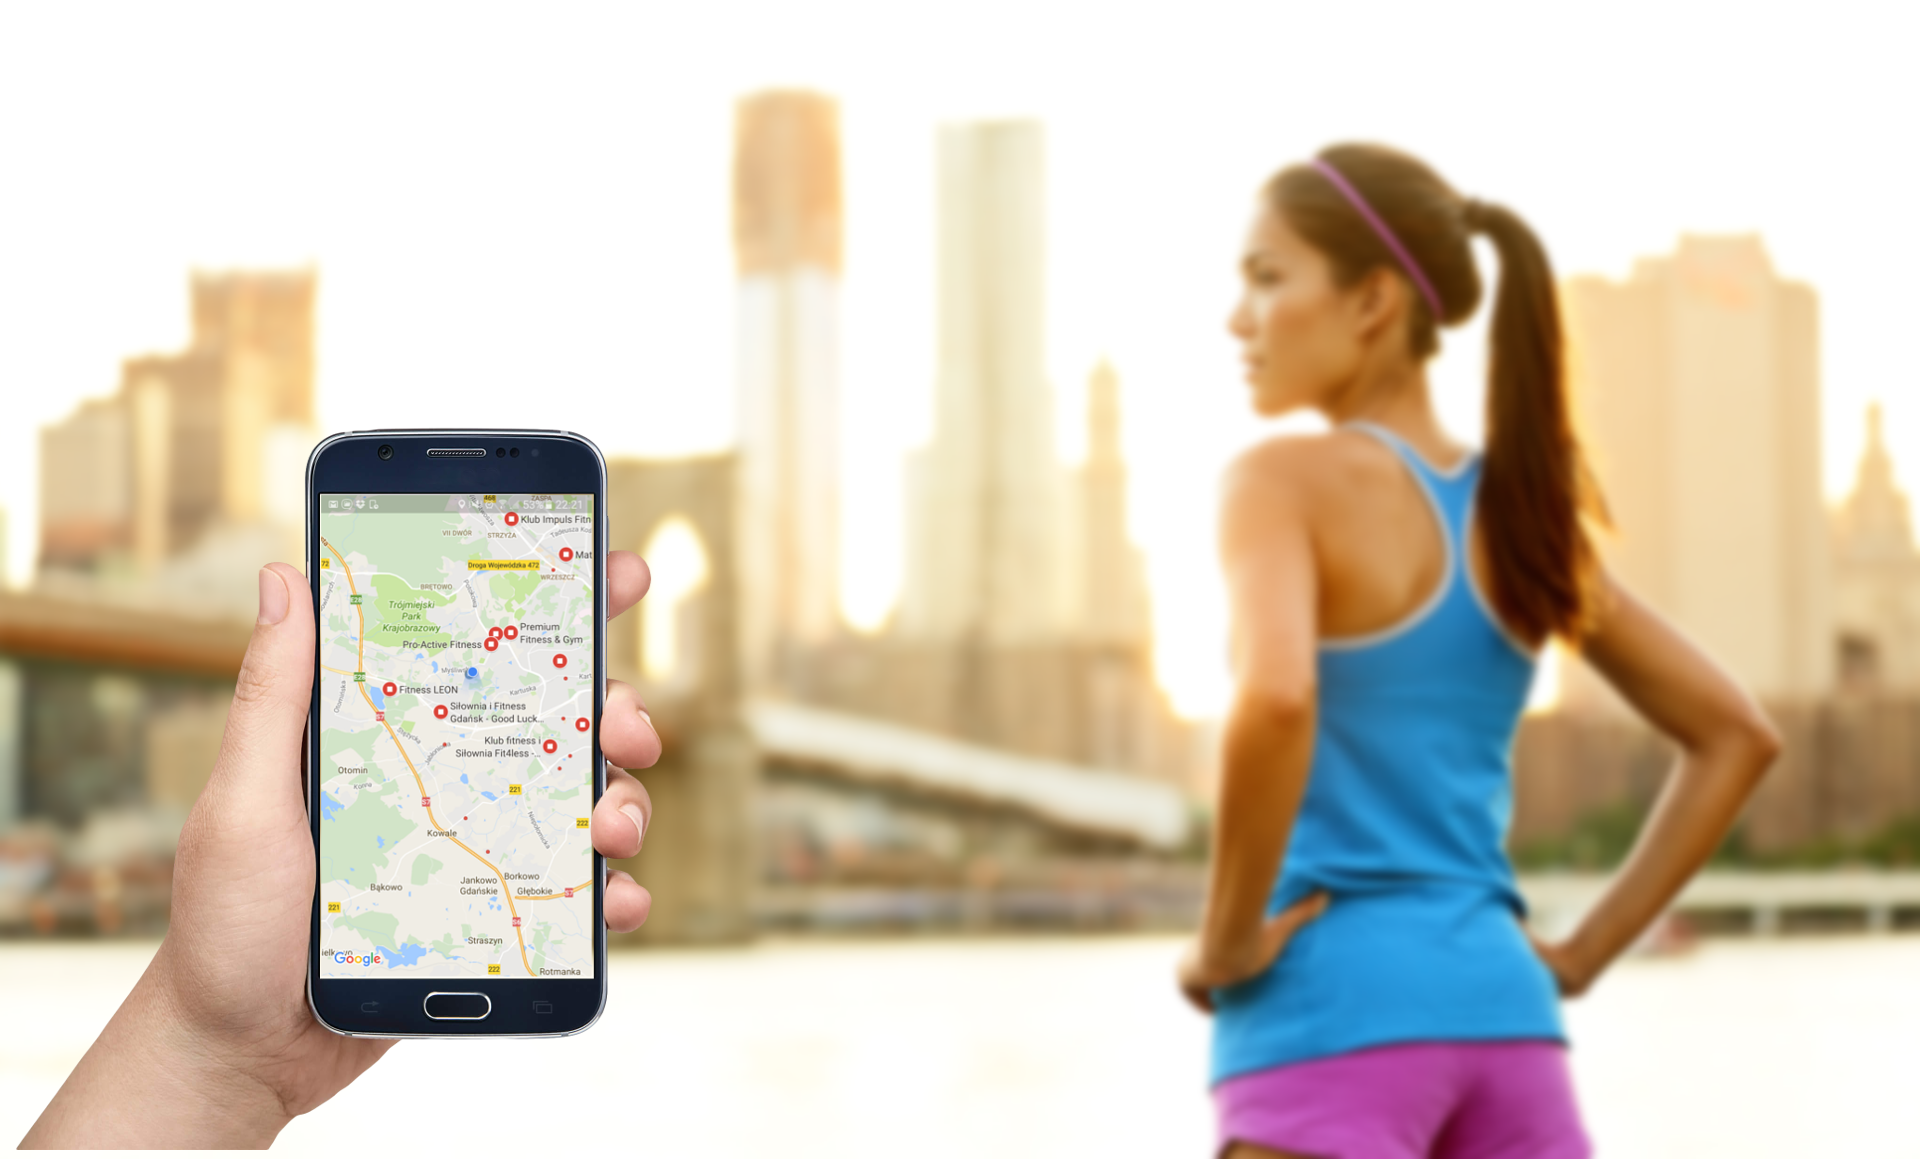
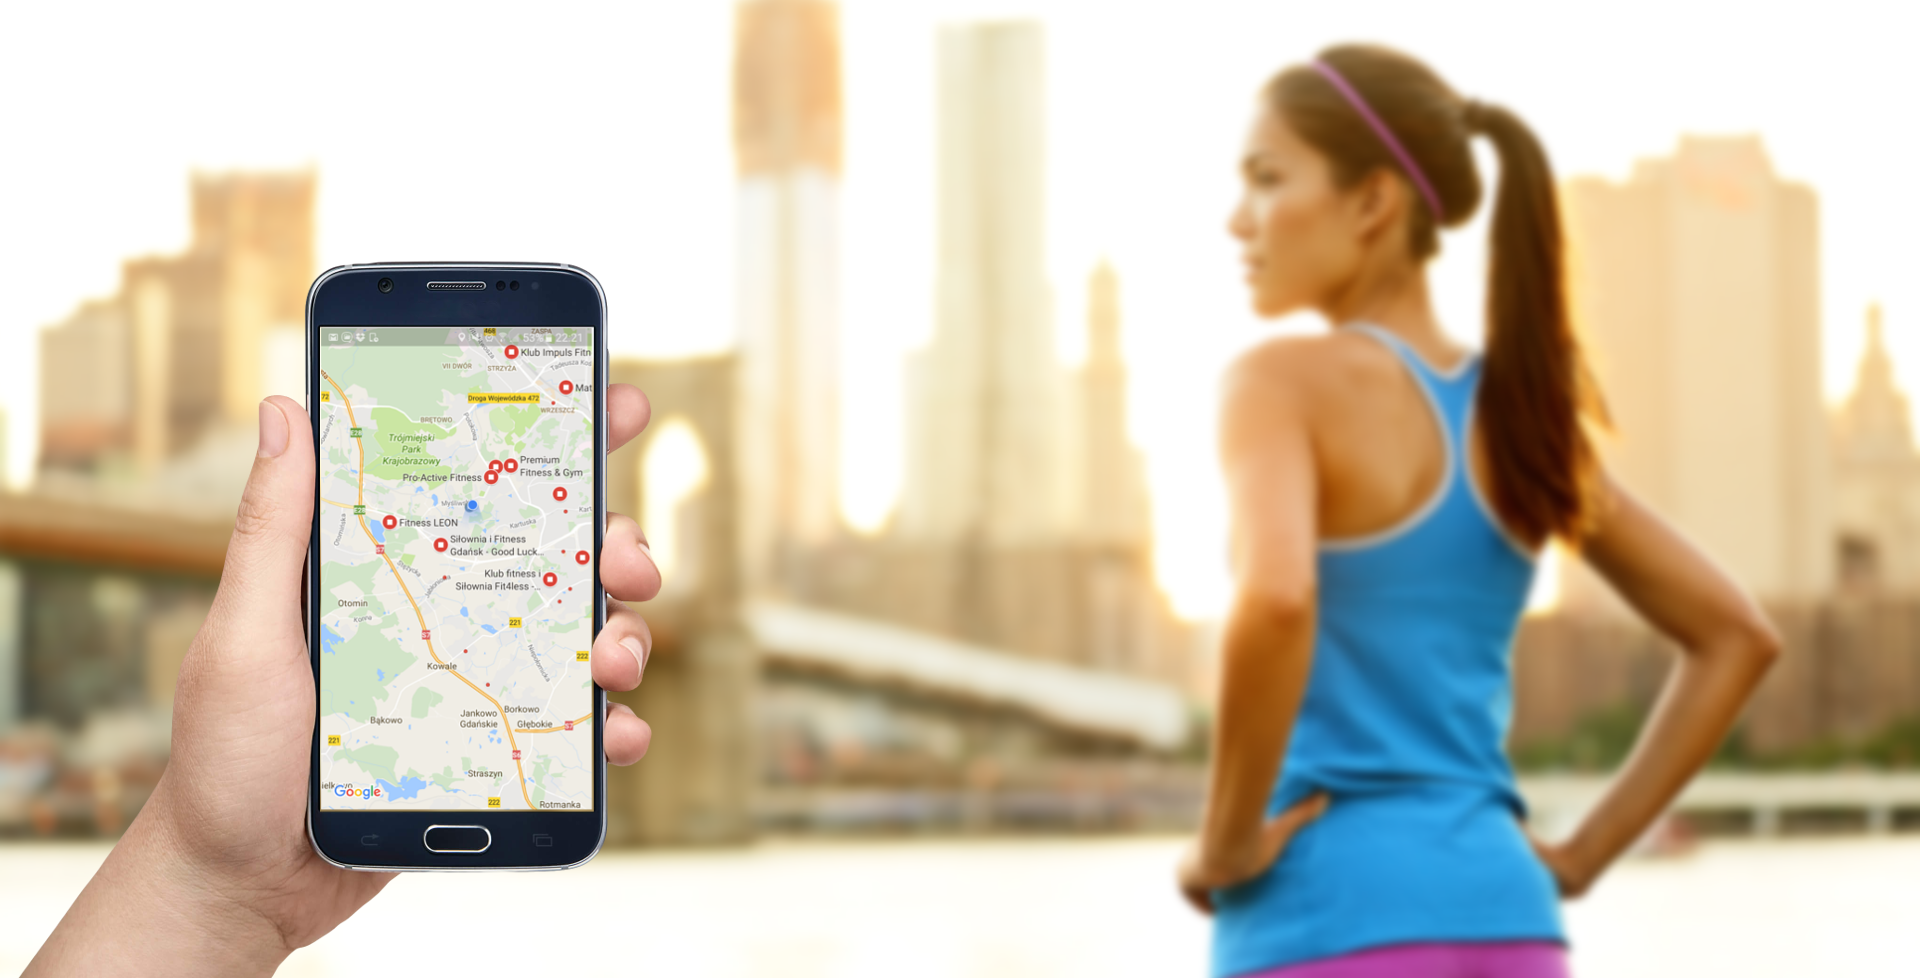
FD7MK/header zajawki wyśrodkowany, zajawka dopieszczona

diff --git a/style/style.css b/style/style.css
@@ -3,38 +3,42 @@
     background-size: cover;
     background-repeat: no-repeat;
     min-height: 100vh;
-    background-position: center;
+    background-position: center 63px;
     width: 100%;
     /*margin-top: 1px;*/
     background-attachment: fixed;
-
+    display: flex;
+    display: -webkit-flex;
+    -webkit-justify-content: center;
+    justify-content: center;
+    align-items: center;
+    -webkit-align-items: center;
 }
+.header-zajawka {
+    width: 350px;
+    height: auto;
+}
+
 #main-header{
     min-height: 50px;
 }
 
 section {
-    /*margin-top: 50px;*/
-    margin-bottom: 50px;
+     margin-bottom: 50px;
 }
 
 .zajawka h1 {
     font-family: 'Francois One', sans-serif;
-    font-size: 25px;
     color: black;
-    padding-top: 10px;
-    padding-bottom: 10px;
-    padding-left: 300px;
-    opacity: 0.99;
-}
+    font-size: 34px;
+    font-weight: 300;
+   }
 
 .zajawka h2 {
     font-family: 'Francois One', sans-serif;
     font-weight: 300;
     font-size: 40px;
     color: black;
-    padding-left: 100px;
-    opacity: 0.99;
 }
 
 #main-menu {
@@ -57,7 +61,6 @@ section {
 .menu li {
     display: inline-block;
     list-style: none;
-    /*padding: 5px;*/
     margin-left: 10px;
     margin-right: 10px;
 }
@@ -92,8 +95,6 @@ body {
 }
 
 .funkcjonalnosci {
-    /*text-align: center;*/
-    margin: 0;
     padding-top: 63px;
     text-align: center;
     font-size: 22px;

diff --git a/index.html b/index.html
@@ -20,12 +20,12 @@
         </nav>
 </header>
 <main>
-    <div class="zajawka">
-        <h1>Z nami odnajdziesz swoje miejsce!</h1>
-        <h2>Dzięki naszej aplikacji nigdy nie zabraknie Ci miejsc do ćwiczeń</h2>
-
-    </div>
-
+    <header class="zajawka">
+        <div class="header-zajawka">
+            <h1>Nie wiesz gdzie poćwiczyć?</h1>
+            <h2>Dzięki naszej aplikacji nigdy nie zabraknie Ci miejsc ani pomysłów na trening!</h2>
+        </div>
+    </header>
 
 <section id="funkcjonalnosci">
     <ul class="funkcjonalnosci">
@@ -63,7 +63,7 @@
 <footer>
     <div class="logo-stopki"></div>
     <div class="wszelakie-wszelakosci-stopkowe">
-        <div class="copyright">Wszelkie prawa zastrzerzone © 2017 I|I </div>
+        <div class="copyright">Wszelkie prawa zastrzeżone © 2017 I|I </div>
         <a href="mailto:gdzie.pocwicze@gmail.com" class="mail-stopka">Napisz do nas !</a>
 
     </div>
